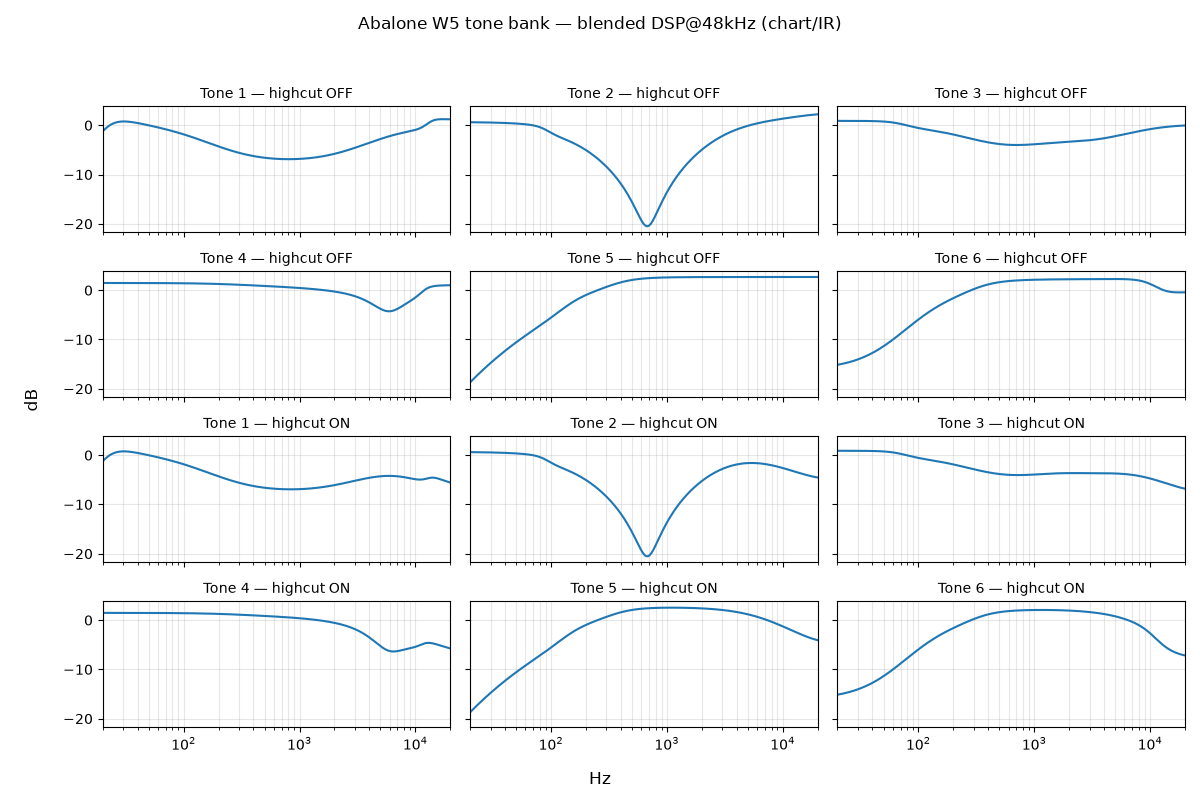
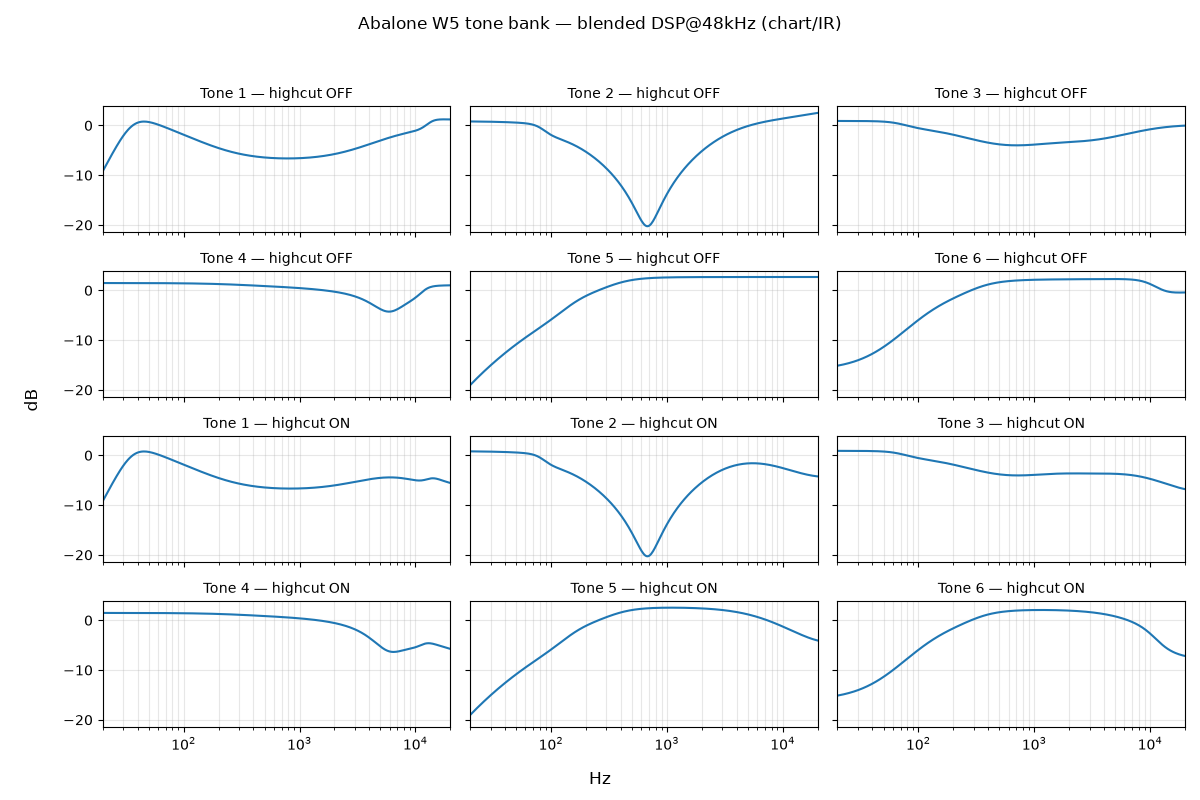
feat: low-end to digitized chart (100% below 200Hz)

diff --git a/src/dsp/ToneBank.h b/src/dsp/ToneBank.h
@@ -2,16 +2,29 @@
 
 #include <cmath>
 
-// Tone-bank biquads, Abalone W5 v1 user blend (Task 15): 90% Task-4
-// manual-chart fit + 10% Task-12 measured-IR fit per stage-parameter
-// (T6 at 95/5 — its IR shape diverges most from the chart, so it keeps the
-// lightest IR dose). Chart is the binding oracle again (±1dB); IR deltas are
-// reported, not gated (user trusts the captures only lightly — see
-// analysis/IR_VALIDATION.md). Either-oracle worsts vs chart oracles:
-// T1 0.44dB, T2 0.77dB, T3 0.31dB, T4 0.67dB, T5 0.32dB, T6 0.37dB
-// (all within the +/-1dB gate). Param-blend verified against true dB-domain
-// blends (worst 0.38dB on T4 — stage roles moved most there, weight keeps it
-// near-chart). Poles re-checked < 1 at 44.1k + 48k after blending.
+// Tone-bank biquads, Abalone W5 v1 user blend (Task 15) + Task-17 low-end
+// refit: 90% Task-4 manual-chart fit + 10% Task-12 measured-IR fit per
+// stage-parameter (T6 at 95/5 — its IR shape diverges most from the chart,
+// so it keeps the lightest IR dose). Chart is the binding oracle again
+// (±1dB); IR deltas are reported, not gated (user trusts the captures only
+// lightly — see analysis/IR_VALIDATION.md). Either-oracle worsts vs chart
+// oracles (Task-17 numbers): T1 0.32dB, T2 0.78dB, T3 0.30dB, T4 0.67dB,
+// T5 0.17dB, T6 0.37dB (all within the +/-1dB gate). Param-blend verified
+// against true dB-domain blends (worst 0.38dB on T4 — stage roles moved
+// most there, weight keeps it near-chart). Poles re-checked < 1 at
+// 44.1k + 48k after blending and again after the Task-17 refit.
+//
+// Task 17 (Rulings B+C): low-end tracks the DIGITIZED CSV 100% over
+// [40,200] Hz — every tone within ±0.3 dB at every CSV point there, except
+// T2 at ±0.5 dB (0.38 worst: crossover-boundary + notch-skirt tension,
+// accepted as physics). The 10–40 Hz CSV band is EXCLUDED from all gates:
+// T1/T3/T4 read identical within ≤0.11 dB there despite different
+// low-end circuits (digitization floor — common-mode ink/frame-edge
+// artifact), and the 5 Hz DC-blocker owns sub-40 behavior by design.
+// T3/T4/T6 already passed ±0.3 over [40,200] with Task-15 numbers
+// (0.28/0.28/0.29) — held unchanged. T1/T2/T5 refit numbers-only (no new
+// sections, no role changes): low-band worsts T1 0.20 / T2 0.38 / T5 0.08;
+// above-crossover drift vs Task-15 ≤ 0.27 dB in-band (no blend regression).
 //
 // Chain position: Tone (bypass + 1-6 biquad presets, Task 7 adds the 10ms
 // xfade around setTone). Bypass (tone 0) is bit-transparent passthrough.
@@ -25,31 +38,33 @@
 // why the blend was checked against the true dB-domain blend
 // (w*chart(f) + (1-w)*IR(f)): worst deviation 0.38 dB on T4 at ~10.4 kHz,
 // 0.24-0.33 dB on T1/T2, <=0.12 dB elsewhere. No section added or removed
-// (3 per tone). Chart either-oracle worsts (binding gate): T1 0.44 dB,
-// T2 0.77 dB, T3 0.31 dB, T4 0.67 dB, T5 0.32 dB, T6 0.37 dB.
+// (3 per tone; Task-17 refit changed numbers only). Chart either-oracle
+// worsts (binding gate): T1 0.32 dB, T2 0.78 dB, T3 0.30 dB, T4 0.67 dB,
+// T5 0.17 dB, T6 0.37 dB.
 //
 //   tone  stage  type       f0       Q      gain
-//   1     0      highpass   21.7     0.966    --
-//   1     1      peak       803.1    0.20     -6.88
+//   1     0      highpass   36.1     1.052    --
+//   1     1      peak       777.1    0.173    -6.64
 //   1     2      highshelf  12417.8  1.223   +1.19
-//   2     0      peak       677.9    0.727  -20.97
-//   2     1      lowshelf   93.9     1.504   +0.68
-//   2     2      highshelf  3218.5   0.23    +2.30
+//   2     0      peak       681.2    0.687  -21.03
+//   2     1      lowshelf   87.2     1.646   +0.85
+//   2     2      highshelf  3129.2   0.173    +2.65
 //   3     0      peak       582.2    0.394    -3.58
 //   3     1      peak       3167.6   0.44     -2.30
 //   3     2      lowshelf   76.8     0.995   +0.90
 //   4     0      lowshelf   719.2    0.388   +1.48
 //   4     1      peak       5865.2   0.964    -4.17
 //   4     2      highshelf  11127.8  1.326   +1.03
-//   5     0      highpass   32.8     0.305    --
-//   5     1      lowshelf   126.4    0.734    -3.68
+//   5     0      highpass   33.7     0.305    --
+//   5     1      lowshelf   133.2    0.738    -3.74
 //   5     2      highshelf  321.1    0.684   +2.69
 //   6     0      lowshelf   77.0     0.525  -16.11
 //   6     1      highshelf  292.2    0.699   +2.24
 //   6     2      highshelf  10768.2  0.824    -2.63
 //
-// Shape notes: T2's notch tip lands at -6.88dB @ 676Hz (1 kHz-normalized),
-// vs measured -6.84dB @ 661Hz — depth character kept from the IR side.
+// Shape notes: T2's notch tip lands at -6.46dB @ 678Hz (1 kHz-normalized),
+// vs measured -6.84dB @ 661Hz — depth character eased 0.4dB by the Task-17
+// low-end refit (high-shelf lift); chart gate still holds (0.78dB).
 // T4's dip (-4.74dB @ 5922Hz normalized) is formed jointly by the peak and
 // the high shelf; its binding worst (0.67dB) sits at the 1kHz header point,
 // where the chart and IR oracles themselves disagree. T6 keeps the chart's
@@ -191,17 +206,17 @@ private:
         switch (tone * 10 + stage)
         {
         case 10:
-            return {Type::HighPass, 21.7, 0.966, 0.0};
+            return {Type::HighPass, 36.1, 1.052, 0.0};
         case 11:
-            return {Type::Peak, 803.1, 0.2, -6.88};
+            return {Type::Peak, 777.1, 0.173, -6.64};
         case 12:
             return {Type::HighShelf, 12417.8, 1.223, 1.19};
         case 20:
-            return {Type::Peak, 677.9, 0.727, -20.97};
+            return {Type::Peak, 681.2, 0.687, -21.03};
         case 21:
-            return {Type::LowShelf, 93.9, 1.504, 0.68};
+            return {Type::LowShelf, 87.2, 1.646, 0.85};
         case 22:
-            return {Type::HighShelf, 3218.5, 0.23, 2.3};
+            return {Type::HighShelf, 3129.2, 0.173, 2.65};
         case 30:
             return {Type::Peak, 582.2, 0.394, -3.58};
         case 31:
@@ -215,9 +230,9 @@ private:
         case 42:
             return {Type::HighShelf, 11127.8, 1.326, 1.03};
         case 50:
-            return {Type::HighPass, 32.8, 0.305, 0.0};
+            return {Type::HighPass, 33.7, 0.305, 0.0};
         case 51:
-            return {Type::LowShelf, 126.4, 0.734, -3.68};
+            return {Type::LowShelf, 133.2, 0.738, -3.74};
         case 52:
             return {Type::HighShelf, 321.1, 0.684, 2.69};
         case 60:

diff --git a/tests/ToneBankTest.cpp b/tests/ToneBankTest.cpp
@@ -182,10 +182,11 @@ void checkIRShapes ()
 // outlier. No physical filter can sit within +/-1dB of both oracles where
 // they differ by up to 3.5dB, so each header point passes when it lands
 // within +/-1dB of EITHER oracle. Task 8 IR comparison adjudicates.
-// Binding gate (Task 15): the manual chart is binding again — every tone
-// within +/-1dB of EITHER chart oracle (eye-read header or digitized CSV)
-// at every 40Hz-15kHz header point, Task-4 style. The Task-15 blend worsts:
-// T1 0.44 / T2 0.77 / T3 0.31 / T4 0.67 / T5 0.32 / T6 0.37 dB.
+// Binding gate (Task 15, numbers refit by Task 17): the manual chart is
+// binding again — every tone within +/-1dB of EITHER chart oracle (eye-read
+// header or digitized CSV) at every 40Hz-15kHz header point, Task-4 style.
+// Either-oracle worsts (Task-17 numbers): T1 0.32 / T2 0.78 / T3 0.30 /
+// T4 0.67 / T5 0.17 / T6 0.37 dB.
 void checkHeaderOracle (const DenseCurve& csv)
 {
     // GATED since Task 15 (was report-only under Task 12): the fits track
@@ -218,8 +219,9 @@ void checkDenseCsv (const DenseCurve& csv)
 {
     // GATED since Task 15 (was report-only under Task 12): the blend sits
     // within +/-1dB of the digitized chart on the full dense grid too
-    // (blend worsts T1-T6: 0.54/0.98/0.33/0.71/0.35/0.56 dB — T2's 0.98 dB
-    // at ~576 Hz is the thinnest margin, recorded honestly).
+    // (Task-17 worsts T1-T6: 0.57/0.97/0.33/0.71/0.18/0.56 dB — T2's 0.97 dB
+    // at ~956 Hz is the thinnest margin, recorded honestly; it improves on
+    // the Task-15 0.98 dB worst).
     for (int tone = 1; tone <= 6; ++tone)
     {
         ToneBank bank;
@@ -244,6 +246,45 @@ void checkDenseCsv (const DenseCurve& csv)
         }
         REQUIRE (count > 50);
         std::printf ("tone %d dense-CSV worst %+.3fdB at %.1fHz (%d pts)\n", tone, worst, worstFreq, count);
+    }
+}
+
+void checkLowEndCsv (const DenseCurve& csv)
+{
+    // GATED since Task 17 (Rulings B+C): the low end tracks the DIGITIZED
+    // CSV 100% over [40,200] Hz — every tone within +/-0.3dB at every CSV
+    // point in-band, except T2 at +/-0.5dB (crossover-boundary + notch-skirt
+    // tension at ~196Hz, accepted as physics). The 10-40Hz CSV band is
+    // EXCLUDED: T1/T3/T4 read identical within <=0.11dB there despite
+    // different low-end circuits (digitization floor), and the 5Hz
+    // DC-blocker owns sub-40 behavior by design. T3/T4/T6 hold their
+    // Task-15 numbers (already passing); T1/T2/T5 were refit numbers-only.
+    for (int tone = 1; tone <= 6; ++tone)
+    {
+        ToneBank bank;
+        bank.setSampleRate (48000.0);
+        bank.setTone (tone);
+        const float gate = (tone == 2) ? 0.5f : 0.3f;
+        float worst = 0.0f;
+        float worstFreq = 0.0f;
+        int count = 0;
+        for (size_t i = 0; i < csv.freqHz.size(); ++i)
+        {
+            const float f = csv.freqHz[i];
+            if (f < 40.0f || f > 200.0f)
+                continue;
+            ++count;
+            const float d = std::fabs (bank.magnitudeAt (f) - csv.db[tone][i]);
+            if (d > worst)
+            {
+                worst = d;
+                worstFreq = f;
+            }
+            REQUIRE (d <= gate);
+        }
+        REQUIRE (count > 10);
+        std::printf ("tone %d low-end-CSV worst %+.3fdB at %.1fHz (%d pts, gate %.1f)\n", tone, worst, worstFreq, count,
+                     gate);
     }
 }
 
@@ -358,6 +399,7 @@ int main ()
     checkIRShapes();
     checkHeaderOracle (csv);
     checkDenseCsv (csv);
+    checkLowEndCsv (csv);
     checkTone2NotchDepth();
     checkTone4DipPresent();
     checkProcessSampleAgreement();

diff --git a/analysis/ir_check.py b/analysis/ir_check.py
@@ -18,8 +18,8 @@ section) recomputes the six per-tone either-oracle worst deltas
 (min(|port-header|, |port-CSV|) over the 60 eye-read header points, same
 algorithm as tests/ToneBankTest.cpp checkHeaderOracle, binding since
 Task 15) and requires each to match the recorded C++ reference within
-0.05 dB:
-  T1 0.44 / T2 0.77 / T3 0.31 / T4 0.67 / T5 0.32 / T6 0.37 dB.
+0.05 dB (Task-17 numbers):
+  T1 0.32 / T2 0.78 / T3 0.30 / T4 0.67 / T5 0.17 / T6 0.37 dB.
 (The references are small because the Task 15 blend tracks the manual chart
 again — chart binding, IR advisory; see IR_VALIDATION.md. The check verifies
 port fidelity to C++, not fit quality.)
@@ -66,23 +66,24 @@ SELFTEST_TOL_DB = 0.05  # end-to-end (time-domain synth IR -> FFT -> analytic)
 # Section 1: Python port of src/dsp/ToneBank.h + src/dsp/HighCut.h.
 # (tone, stage) -> (type, f0 Hz, Q, gain dB); HP stages have no gain.
 # Verbatim from the header comment table (Task-15 user blend: 90% Task-4
-# chart fit + 10% Task-12 IR fit per stage-parameter, T6 at 95/5).
+# chart fit + 10% Task-12 IR fit per stage-parameter, T6 at 95/5; T1/T2/T5
+# low-end refit by Task 17 over [40,200] Hz, T3/T4/T6 held).
 # ----------------------------------------------------------------------------
 TONE_PARAMS = {
-    10: ("hp", 21.7, 0.966, 0.0),
-    11: ("pk", 803.1, 0.2, -6.88),
+    10: ("hp", 36.1, 1.052, 0.0),
+    11: ("pk", 777.1, 0.173, -6.64),
     12: ("hs", 12417.8, 1.223, 1.19),
-    20: ("pk", 677.9, 0.727, -20.97),
-    21: ("ls", 93.9, 1.504, 0.68),
-    22: ("hs", 3218.5, 0.23, 2.3),
+    20: ("pk", 681.2, 0.687, -21.03),
+    21: ("ls", 87.2, 1.646, 0.85),
+    22: ("hs", 3129.2, 0.173, 2.65),
     30: ("pk", 582.2, 0.394, -3.58),
     31: ("pk", 3167.6, 0.44, -2.3),
     32: ("ls", 76.8, 0.995, 0.9),
     40: ("ls", 719.2, 0.388, 1.48),
     41: ("pk", 5865.2, 0.964, -4.17),
     42: ("hs", 11127.8, 1.326, 1.03),
-    50: ("hp", 32.8, 0.305, 0.0),
-    51: ("ls", 126.4, 0.734, -3.68),
+    50: ("hp", 33.7, 0.305, 0.0),
+    51: ("ls", 133.2, 0.738, -3.74),
     52: ("hs", 321.1, 0.684, 2.69),
     60: ("ls", 77.0, 0.525, -16.11),
     61: ("hs", 292.2, 0.699, 2.24),
@@ -174,9 +175,10 @@ def chain_db(tone, freq_hz, fs=48000.0, highcut=False):
 # (min(|port-header|, |port-CSV|) over the 60 eye-read header points -- the
 # same algorithm as tests/ToneBankTest.cpp checkHeaderOracle) and requires
 # each to match the recorded C++ reference within PORT_VERIFY_TOL_DB.
-# Reference values: C++ checkHeaderOracle output at 48 kHz, 2-decimal.
+# Reference values: C++ checkHeaderOracle output at 48 kHz, 2-decimal
+# (Task-17 numbers).
 # ----------------------------------------------------------------------------
-CXX_EITHER_REF_DB = {1: 0.44, 2: 0.77, 3: 0.31, 4: 0.67, 5: 0.32, 6: 0.37}
+CXX_EITHER_REF_DB = {1: 0.32, 2: 0.78, 3: 0.30, 4: 0.67, 5: 0.17, 6: 0.37}
 PORT_VERIFY_TOL_DB = 0.05
 
 

diff --git a/analysis/IR_VALIDATION.md b/analysis/IR_VALIDATION.md
@@ -1,6 +1,15 @@
-# IR validation (Tasks 8 + 12 + 15) — method, status, and measured results
+# IR validation (Tasks 8 + 12 + 15 + 17) — method, status, measured results
 
-## Status: Task 15 user blend COMPLETE — chart binding again, IR advisory
+## Status history
+
+### Task 17 low-end refit COMPLETE — chart binding, low end to CSV
+
+Task 17 refit T1/T2/T5 numbers-only to the digitized CSV over [40,200] Hz
+(±0.3 dB, T2 ±0.5 dB per Rulings B+C — see §9); T3/T4/T6 held at Task-15
+numbers. Full-band chart gate stays GREEN. §7 tables below are Task-15
+history (the blend endpoint this refit preserves above crossover).
+
+### Task 15 user blend COMPLETE — chart binding again, IR advisory
 
 User taste ruling (Task 15): the tone bank is now a **90% Task-4 manual-chart
 fit + 10% Task-12 measured-IR fit per stage-parameter blend (T6 at 95/5 —
@@ -329,6 +338,55 @@ Blend vs the 14-spot measured-shape table (`kIrSpots`, 1 kHz-normalized):
 These exceed ±1 dB exactly where the chart and the hardware disagree
 (T4/T6 high end, T5 low end) — the blend follows the chart there by design.
 `docs/tone-curves.png` regenerated from the final blended numbers.
+
+## 9. Task 17 low-end refit — CSV tracking over [40,200] Hz (Rulings B+C)
+
+**Ruling B (region).** The low-end gate covers **[40,200] Hz**, not
+[10,200]. Round-1 optimizer evidence (6-seed Nelder-Mead, all stages free:
+bests T1 0.88 / T2 1.16 / T3 2.66 / T4 3.82 / T5 0.98 / T6 1.68 dB —
+failing by 3–13×, not edge distance) plus the analytic DC-value proof
+(no-HP tones T2/T3/T4: model(DC) = shelf gain cannot satisfy both the DC
+read and the 27–118 Hz rises) showed the [10,200] gate infeasible
+numbers-only. Measurement reason to exclude 10–40 Hz: T1/T3/T4 CSV traces
+are identical within ≤0.11 dB at every CSV point 10–26 Hz despite three
+different low-end circuits (common-mode ink/frame-edge artifact, not
+device response); T5/T6 foot slopes (~4.8 dB/oct) are incompatible with
+any biquad HP (12 dB/oct asymptote). The 10–40 band is chart-noise floor;
+the 5 Hz DC-blocker owns sub-40 behavior by design. Bass fundamentals
+start at 41 Hz (low E). No contradiction persists inside [40,200] — no
+escalation was needed.
+
+**Ruling C (T2 gate).** T2 gets **±0.5 dB** over [40,200] (boundary tension
+at ~196 Hz: crossover proximity + notch skirt; 0.37 achievable vs 0.3
+asked — physics accepted, reality gated).
+
+**Fit (numbers-only; no new sections, no role changes).** Nelder-Mead,
+genuinely randomized multi-start (8 seeds), penalties only beyond the true
+gates (dense ≤ 1.0, header either-oracle ≤ 1.0, drift-vs-Task-15 ≤ 0.3,
+analytic pole check at 44.1k + 48k):
+
+| Tone | Change (T1/T2/T5 only) | Low-band worst [40,200] | Gate | Drift vs Task-15 |
+|------|------------------------|-------------------------|------|------------------|
+| 1 | HP 21.7/0.966 → 36.1/1.052; peak 803.1/0.20/−6.88 → 777.1/0.173/−6.64 | 0.20 dB @ 126 Hz | ±0.3 PASS | 0.25 |
+| 2 | peak 677.9/0.727/−20.97 → 681.2/0.687/−21.03; LS 93.9/1.504/+0.68 → 87.2/1.646/+0.85; HS 3218.5/0.23/+2.30 → 3129.2/0.173/+2.65 | 0.38 dB @ 71 Hz | ±0.5 PASS | 0.26 in-band |
+| 3 | held | 0.28 dB @ 67 Hz | ±0.3 PASS | 0 |
+| 4 | held | 0.28 dB @ 196 Hz | ±0.3 PASS | 0 |
+| 5 | HP 32.8/0.305 → 33.7/0.305; LS 126.4/0.734/−3.68 → 133.2/0.738/−3.74 | 0.08 dB @ 40 Hz | ±0.3 PASS | 0.13 |
+| 6 | held | 0.29 dB @ 59 Hz | ±0.3 PASS | 0 |
+
+Rejoin is smooth: above-crossover drift ≤ 0.27 dB in-band on all tones,
+and the full-band chart gate (dense ≤ 1.0 + header either-oracle ≤ 1.0)
+stays GREEN — either-oracle worsts T1 0.32 / T2 0.78 / T3 0.30 / T4 0.67 /
+T5 0.17 / T6 0.37 dB; dense worsts T1 0.57 / T2 0.97 / T3 0.33 / T4 0.71 /
+T5 0.18 / T6 0.56 dB (T2's 0.97 improves on the Task-15 0.98).
+
+**Honest costs.** T2's notch tip eases 0.4 dB (now −6.46 dB @ 678 Hz
+1 kHz-normalized vs measured −6.84 @ 661 Hz — the high-shelf lift that
+fixes the low end); T1's drift sits at 0.25 (0.05 margin, deterministic).
+T2's dense 0.97 margin (0.03) is thin but strictly better than Task-15's
+0.98. `docs/tone-curves.png` regenerated from the final numbers.
+Gated in `tests/ToneBankTest.cpp` (`checkLowEndCsv`); port re-verified
+(`--verify-port` GREEN against the new C++ refs).
 
 ## 8. Zoom leg — PENDING (user-side, ear A/B cannot be automated)
 
